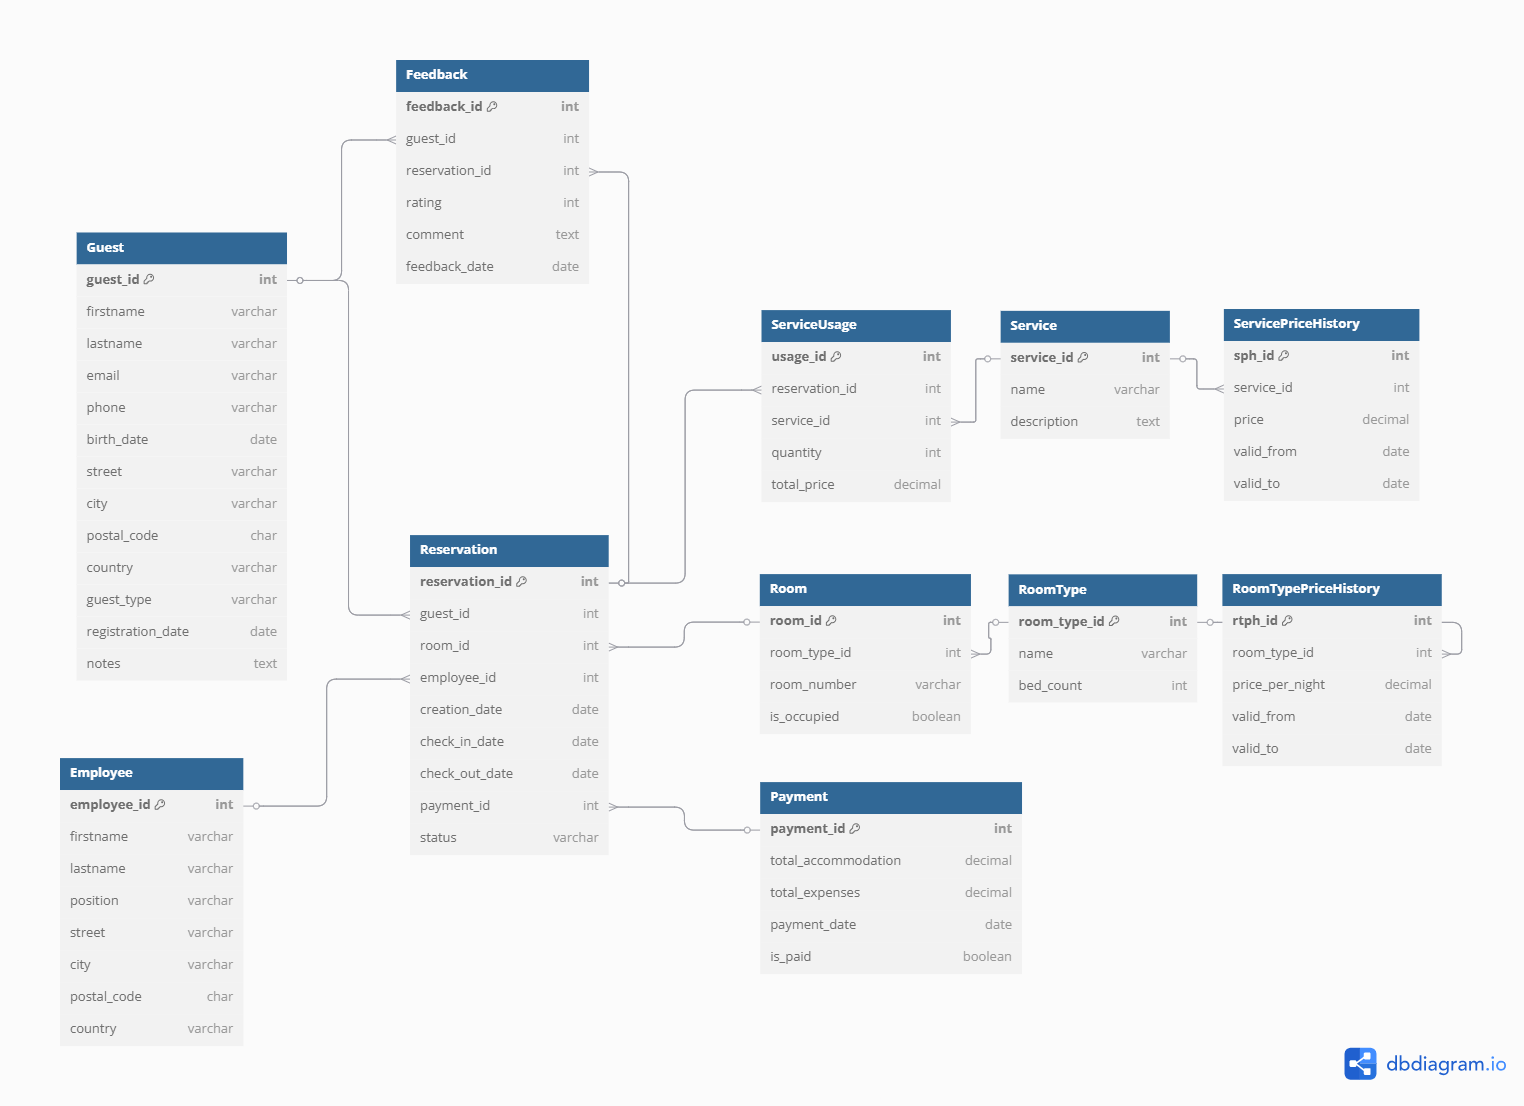
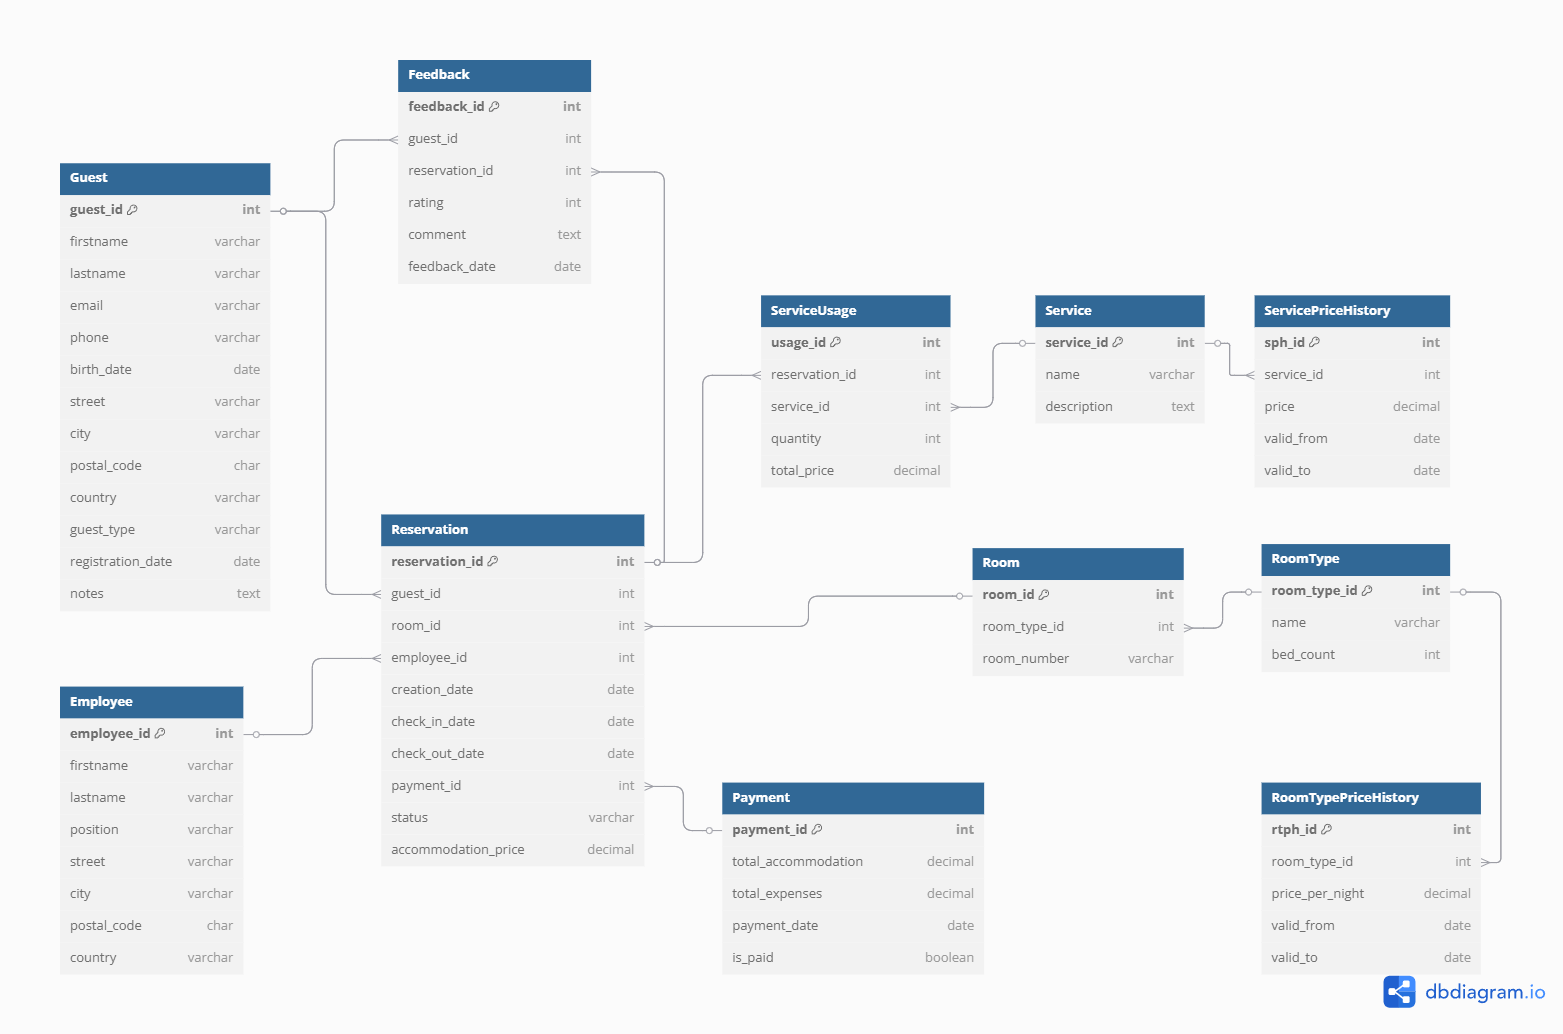
aktualizace textu projektu

diff --git a/4_semestr/DS 2/projekt/main.tex b/4_semestr/DS 2/projekt/main.tex
@@ -334,99 +334,86 @@ Formulář Správa hotelových rezervací poskytuje následujících 10 funkcí,
 \subsubsection{Funkce typu Result (výsledkové)}
 
 \begin{enumerate}
-    \item \textbf{getReservationList} - Zobrazení seznamu všech rezervací v přehledové tabulce. Funkce načítá data ze všech relevantních tabulek a zobrazuje klíčové informace jako ID rezervace, jméno hosta, číslo pokoje, datum příjezdu a status rezervace.
-    
-    \item \textbf{getPriceOfAccommodation} - Výpočet a zobrazení ceny za ubytování na základě typu pokoje a délky pobytu. Funkce počítá cenu jako násobek počtu nocí a ceny za noc pro daný typ pokoje.
-    
-    \item \textbf{getUsageService} - Zobrazení seznamu služeb využitých v rámci dané rezervace včetně množství a ceny. V sekci plateb je tabulka s přehledem všech služeb načtených z tabulky ServiceUsage.
-
-    \item \textbf{getPriceOfServices} - Výpočet a zobrazení ceny za jednotlivé služby na základě množství a ceny za jednotku. Funkce načítá data z tabulky Service a počítá celkovou cenu jako součin množství a ceny za jednotku.
-
-    \item \textbf{getRoomList} - Načtení seznamu všech pokojů pro plnění výběrového pole při vytváření nebo úpravě rezervace.
-
-    \item \textbf{getServiceList} - Načtení seznamu všech dostupných služeb pro výběr při přidávání služby k rezervaci.
-
-    \item \textbf{getReservationState} - Načtení seznamu stavů rezervací pro plnění výběrového pole při vytváření nebo úpravě rezervace.
-
-    \item \textbf{getReservationDetail } - Načtení detailních informací o rezervaci na základě ID rezervace. Funkce zobrazuje všechny relevantní informace včetně hosta, pokoje, služeb.
-
+    \item getGuestInformation(reservation\_id) – Načte informace o hostovi podle zadané rezervace (jméno, příjmení, email, telefon, adresa).
+    \item getReservationList() – Vrátí seznam všech rezervací včetně jména hosta, čísla pokoje, data příjezdu a stavu rezervace.
+    \item getPriceOfAccommodation(reservation\_id) – Vrátí cenu za ubytování uloženou v rezervaci (hodnota \texttt{accommodation\_price} v tabulce Reservation pro dané \texttt{reservation\_id}).
+    \item getPriceOfServiceUsage(reservation\_id) – Vrátí seznam služeb využitých v rámci rezervace včetně množství a ceny.
+    \item getPriceOfServices(reservation\_id) – Spočítá a zobrazí celkovou cenu za všechny služby v rámci rezervace.
+    \item getFreeRoomList(check\_in\_date, check\_out\_date) – Vrátí seznam volných pokojů pro zadaný termín.
+    \item getServiceList() – Vrátí seznam všech dostupných služeb.
+    \item getReservationState() – Vrátí seznam možných stavů rezervace.
+    \item getReservationDetail(reservation\_id) – Vrátí detailní informace o rezervaci (host, pokoj, platba, služby).
 \end{enumerate}
 
 \subsubsection{Funkce typu Invocation (vyvolávací)}
 
-\begin{enumerate}\setcounter{enumi}{8}
-    \item \textbf{getReservationByCheckin} - Filtrování seznamu rezervací podle data příjezdu. Uživatel zadá požadované datum do pole ve vyhledávací části a systém zobrazí pouze rezervace s odpovídajícím datem příjezdu.
-    
-    \item \textbf{changeStatusReservation} - Změna statusu rezervace (Confirmed, Checked-In, Checked-Out, Cancelled). Pomocí rozbalovacího seznamu v detailu rezervace lze změnit stav rezervace, což automaticky aktualizuje databázi a může spustit související procesy (např. označení pokoje jako obsazeného).
-    
-    \item \textbf{changeRoom} - Změna přiřazeného pokoje pro existující rezervaci. Pomocí formulářového pole v detailu rezervace lze změnit číslo pokoje, přičemž systém automaticky ověří dostupnost nového pokoje v daném termínu.
-    
-    \item \textbf{payForReservation} - Označení rezervace jako zaplacené. Pomocí tlačítka Pay v sekci plateb lze označit platbu jako dokončenou, což aktualizuje pole ispaid v tabulce Payment.
-    
-    \item \textbf{addService} - Přidání nové služby k vybrané rezervaci. Pomocí tlačítka "Add" lze přidat novou službu z katalogu, zadat množství a systém automaticky vypočítá celkovou cenu a přidá záznam do tabulky ServiceUsage.
-
-    \item \textbf{deleteService} - Odstranění služby z rezervace. Pomocí tlačítka "Delete" lze odstranit vybranou službu z tabulky ServiceUsage, což aktualizuje celkovou cenu rezervace.
-
+\begin{enumerate}\setcounter{enumi}{9}
+    \item getReservationByCheckin(check\_in\_date) – Filtrování rezervací podle data příjezdu.
+    \item changeStatusReservation(reservation\_id, new\_status) – Změní stav rezervace na zvolenou hodnotu.
+    \item changeRoom(reservation\_id, new\_room\_id) – Změní přiřazený pokoj v rezervaci, ověří dostupnost a přepočítá cenu.
+    \item payForReservation(payment\_id) – Označí rezervaci jako zaplacenou a nastaví datum platby.
+    \item addService(reservation\_id, service\_id, quantity, usage\_date) – Přidá službu k rezervaci, vypočítá cenu a uloží záznam.
+    \item deleteService(usage\_id) – Odstraní službu z rezervace a aktualizuje celkovou cenu.
 \end{enumerate}
 
-\subsection{Detailní popis funkcí}
+% \subsection{Detailní popis funkcí}
 
-\subsubsection{getPriceOfAccommodation}
-\textbf{Vstupy:} \\
-p\_reservation\_id
+% \subsubsection{getPriceOfAccommodation}
+% \textbf{Vstupy:} \\
+% p\_reservation\_id
 
-\textbf{Postup:}
-\begin{enumerate}
-    \item Zjisti typ pokoje a termín rezervace podle \texttt{Reservation} (dle \texttt{reservation\_id}).
-    \item Zjisti cenu za noc z tabulky \texttt{RoomTypePriceHistory} podle typu pokoje a data příjezdu (\texttt{check\_in\_date} spadá do platnosti ceny).
-    \item Spočítej počet nocí jako rozdíl \texttt{check\_out\_date} a \texttt{check\_in\_date}.
-    \item Výsledná cena = počet nocí $\times$ cena za noc.
-\end{enumerate}
+% \textbf{Postup:}
+% \begin{enumerate}
+%     \item Zjisti typ pokoje a termín rezervace podle \texttt{Reservation} (dle \texttt{reservation\_id}).
+%     \item Zjisti cenu za noc z tabulky \texttt{RoomTypePriceHistory} podle typu pokoje a data příjezdu (\texttt{check\_in\_date} spadá do platnosti ceny).
+%     \item Spočítej počet nocí jako rozdíl \texttt{check\_out\_date} a \texttt{check\_in\_date}.
+%     \item Výsledná cena = počet nocí $\times$ cena za noc.
+% \end{enumerate}
 
-\subsubsection{getPriceOfService}
-\textbf{Vstupy:} \\
-p\_service\_id, p\_quantity, p\_usage\_date
+% \subsubsection{getPriceOfService}
+% \textbf{Vstupy:} \\
+% p\_service\_id, p\_quantity, p\_usage\_date
 
-\textbf{Postup:}
-\begin{enumerate}
-    \item Zjisti jednotkovou cenu služby z tabulky \texttt{ServicePriceHistory} podle zadaného \texttt{service\_id} a data využití služby (\texttt{usage\_date} spadá do platnosti ceny).
-    \item Vypočítej celkovou cenu služby jako jednotková cena vynásobená množstvím.
-\end{enumerate}
-
-
-\subsubsection{addService}
-\textbf{Vstupy:} \\
-p\_reservation\_id, p\_service\_id, p\_quantity, p\_usage\_date
-
-\textbf{Postup:}
-\begin{enumerate}
-    \item Zjisti jednotkovou cenu služby z tabulky \texttt{ServicePriceHistory} podle \texttt{service\_id} a data využití.
-    \item Vypočítej celkovou cenu služby (jednotková cena krát množství).
-    \item Vlož nový záznam o využití služby do tabulky \texttt{ServiceUsage} s příslušnými hodnotami.
-\end{enumerate}
+% \textbf{Postup:}
+% \begin{enumerate}
+%     \item Zjisti jednotkovou cenu služby z tabulky \texttt{ServicePriceHistory} podle zadaného \texttt{service\_id} a data využití služby (\texttt{usage\_date} spadá do platnosti ceny).
+%     \item Vypočítej celkovou cenu služby jako jednotková cena vynásobená množstvím.
+% \end{enumerate}
 
 
-\subsubsection{payForReservation}
-\textbf{Vstupy:} \\
-p\_payment\_id
+% \subsubsection{addService}
+% \textbf{Vstupy:} \\
+% p\_reservation\_id, p\_service\_id, p\_quantity, p\_usage\_date
 
-\textbf{Postup:}
-\begin{enumerate}
-    \item Najdi platbu podle \texttt{payment\_id}.
-    \item Označ platbu jako zaplacenou a nastav datum platby na aktuální datum.
-\end{enumerate}
+% \textbf{Postup:}
+% \begin{enumerate}
+%     \item Zjisti jednotkovou cenu služby z tabulky \texttt{ServicePriceHistory} podle \texttt{service\_id} a data využití.
+%     \item Vypočítej celkovou cenu služby (jednotková cena krát množství).
+%     \item Vlož nový záznam o využití služby do tabulky \texttt{ServiceUsage} s příslušnými hodnotami.
+% \end{enumerate}
 
 
-\subsubsection{getReservationDetail}
-\textbf{Vstupy:} \\
-p\_reservation\_id
+% \subsubsection{payForReservation}
+% \textbf{Vstupy:} \\
+% p\_payment\_id
 
-\textbf{Postup:}
-\begin{enumerate}
-    \item Načti základní údaje o rezervaci podle \texttt{reservation\_id}.
-    \item Získej informace o hostovi, pokoji, platbě a využitých službách spojených s touto rezervací.
-    \item Zobraz detailní informace uživateli.
-\end{enumerate}
+% \textbf{Postup:}
+% \begin{enumerate}
+%     \item Najdi platbu podle \texttt{payment\_id}.
+%     \item Označ platbu jako zaplacenou a nastav datum platby na aktuální datum.
+% \end{enumerate}
+
+
+% \subsubsection{getReservationDetail}
+% \textbf{Vstupy:} \\
+% p\_reservation\_id
+
+% \textbf{Postup:}
+% \begin{enumerate}
+%     \item Načti základní údaje o rezervaci podle \texttt{reservation\_id}.
+%     \item Získej informace o hostovi, pokoji, platbě a využitých službách spojených s touto rezervací.
+%     \item Zobraz detailní informace uživateli.
+% \end{enumerate}
 
 
 
@@ -508,6 +495,10 @@ Transakce zajistí změnu přiřazeného pokoje pro existující rezervaci. Ově
 \subsubsection{Kroky transakce}
 \begin{enumerate}
     \item \textbf{Start transakce}
+    \item \textbf{Načtení dat rezervace:}
+    \begin{itemize}
+        \item Získej \texttt{check\_in\_date}, \texttt{check\_out\_date}, \texttt{room\_id}, \texttt{accommodation\_price} z tabulky Reservation podle \texttt{reservation\_id}.
+    \end{itemize}
     \item \textbf{Ověření dostupnosti nového pokoje:}
     \begin{itemize}
         \item Zjisti, zda je nový pokoj v požadovaném termínu volný:
@@ -524,28 +515,19 @@ WHERE res.room_id = :newRoomId
 \end{verbatim}
         \item Pokud není volný, proveď rollback a ukonči transakci.
     \end{itemize}
-    \item \textbf{Ověření platnosti dat:}
-    \begin{itemize}
-        \item Zkontroluj, že datum příjezdu je před datem odjezdu.
-        \item Pokud ne, rollback a ukončení transakce.
-    \end{itemize}
     \item \textbf{Aktualizace rezervace:}
     \begin{itemize}
-        \item Aktualizuj záznam v tabulce Reservation – nastav nový room\_id:
+        \item \textbf{Výpočet nové ceny ubytování:}
+    \begin{itemize}
+        \item Spočítej novou cenu za ubytování podle nového pokoje a termínu (například pomocí funkce \texttt{getPriceOfAccommodation}).
+    \end{itemize}
+        \item Spočítej novou cenu pomocí funkce \texttt{getPriceOfAccommodation} (použij nový pokoj, check\_in\_date, check\_out\_date).
+        \item Aktualizuj záznam v tabulce Reservation – nastav nový \texttt{room\_id} a \texttt{accommodation\_price}:
 \begin{verbatim}
 UPDATE Reservation
-SET room_id = :newRoomId
+SET room_id = :newRoomId,
+    accommodation_price = :newAccommodationPrice
 WHERE reservation_id = :reservationId;
-\end{verbatim}
-    \end{itemize}
-    \item \textbf{Aktualizace ceny ubytování:}
-    \begin{itemize}
-        \item Spočítej novou cenu pomocí funkce getPriceOfAccommodation.
-        \item Aktualizuj platbu:
-\begin{verbatim}
-UPDATE Payment
-SET total_accommodation = :newTotal
-WHERE payment_id = :paymentId;
 \end{verbatim}
     \end{itemize}
     \item \textbf{Commit transakce}
